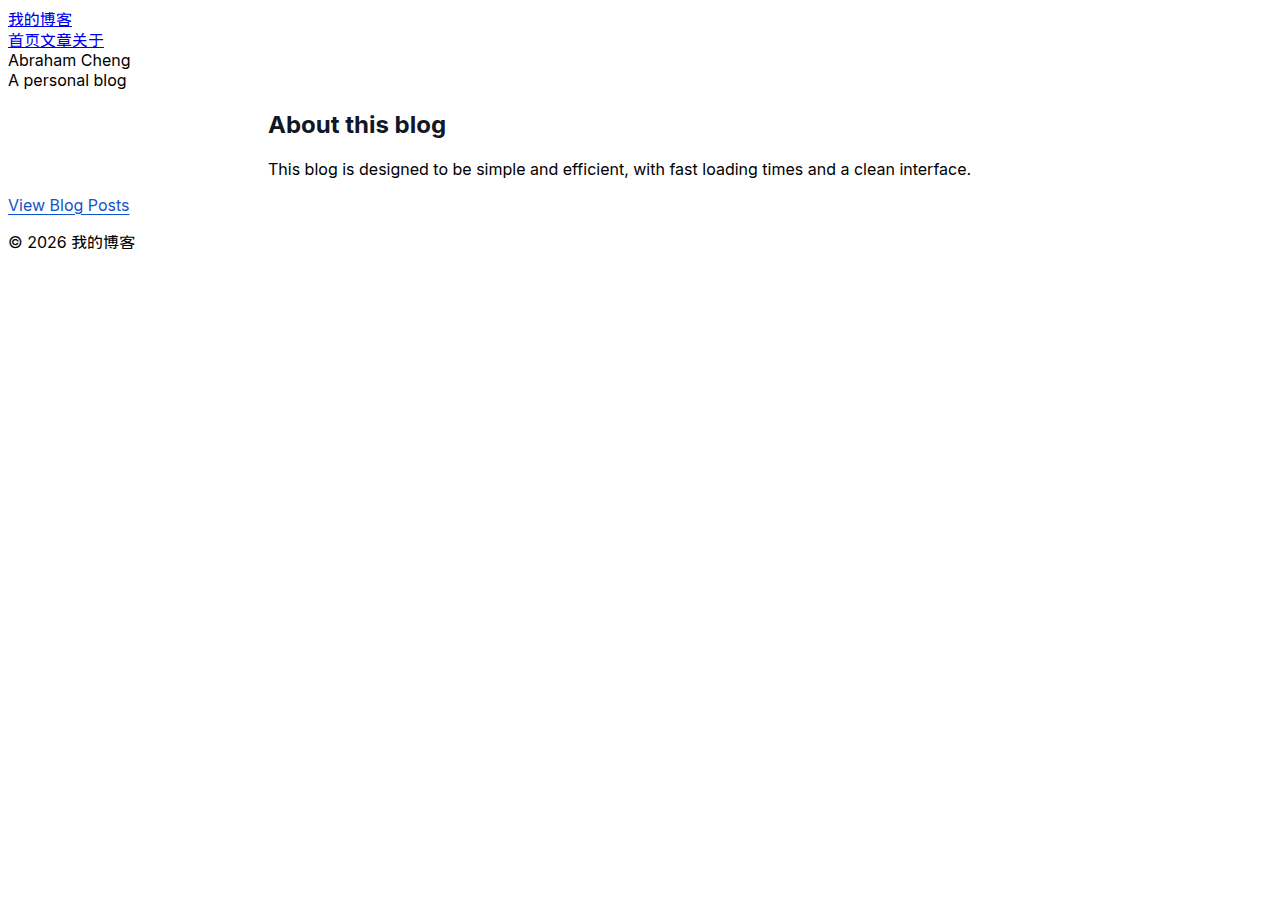
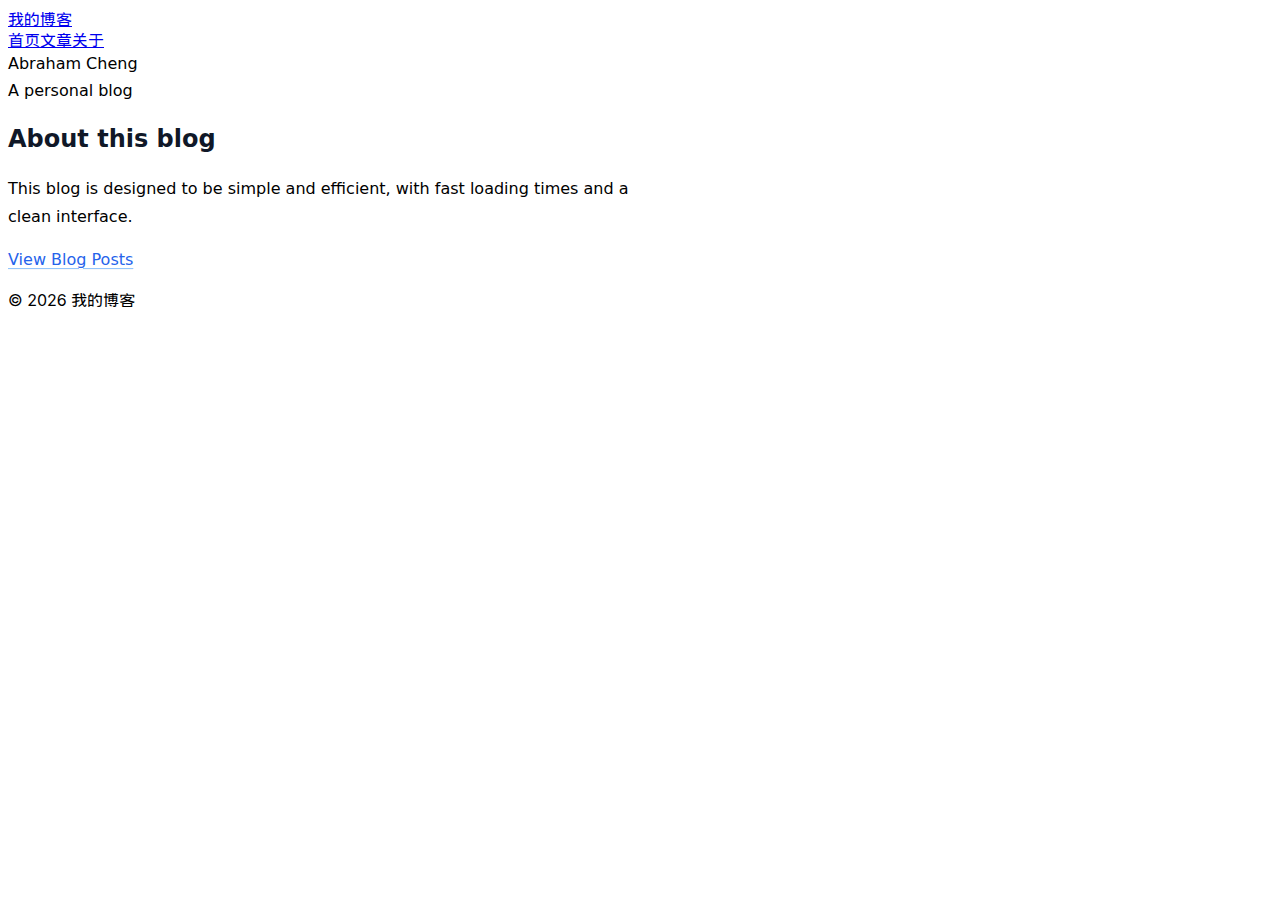
Complete Tailwind article body migration: enhanced typography, optimized config, updated baselines
- Refined typography with improved font sizes, spacing, and line heights
- Enhanced blockquotes with visual styling and proper quoting
- Improved code blocks and syntax highlighting colors
- Added sophisticated link hover states and visited link colors
- Enhanced image and figure styling with borders and shadows
- Added comprehensive table styling for better readability
- Optimized Tailwind config with extended color palette and utilities
- Cleaned up temporary CSS while keeping font smoothing improvements
- Updated baseline screenshots to reflect all improvements
- Visual regression tests pass with 0 mismatched pixels

Changed region(s): [[0.0, 0.0622, 0.75, 0.3422], [0.1875, 0.1244, 0.3438, 0.1556]]

diff --git a/app/globals.css b/app/globals.css
@@ -24,12 +24,7 @@
     @apply bg-[--background] text-black antialiased duration-200 ease-out [-webkit-tap-highlight-color:transparent] dark:text-white dark:bg-black/85;
   }
 
-  /* Stabilize rendering for visual tests: disable animations/transitions and enforce font smoothing */
-  *, *::before, *::after {
-    @apply transition-none!;
-    animation: none !important;
-  }
-
+  /* Enhanced font rendering for better readability */
   html, body {
     -webkit-font-smoothing: antialiased;
     -moz-osx-font-smoothing: grayscale;
@@ -61,29 +56,48 @@
 @layer components {
   /* Tailwind-first test class for article body migration */
   .article-tailwind {
-    @apply text-base leading-8 text-[#364153];
+    @apply text-lg leading-relaxed text-[#364153];
+    font-family: -apple-system, BlinkMacSystemFont, "Segoe UI", Roboto, Oxygen, Ubuntu, Cantarell, sans-serif;
+    max-width: 65ch;
+    line-height: 1.7;
   }
 
   /* Typography mappings for article-tailwind */
   .article-tailwind h1 {
-    @apply text-4xl font-semibold mt-0 mb-6 text-[#101828];
+    @apply text-3xl font-bold mt-0 mb-8 text-[#101828];
+    line-height: 1.2;
   }
 
   .article-tailwind h2 {
-    @apply text-2xl font-semibold mt-8 mb-3 text-[#101828];
+    @apply text-2xl font-semibold mt-12 mb-4 text-[#101828];
+    line-height: 1.3;
   }
 
   .article-tailwind h3 {
-    @apply text-xl font-semibold mt-6 mb-2 text-[#101828];
+    @apply text-xl font-medium mt-8 mb-3 text-[#101828];
+    line-height: 1.4;
+  }
+
+  .article-tailwind h4 {
+    @apply text-lg font-medium mt-6 mb-2 text-[#101828];
+    line-height: 1.4;
+  }
+
+  .article-tailwind h5,
+  .article-tailwind h6 {
+    @apply text-base font-medium mt-4 mb-2 text-[#101828];
+    line-height: 1.4;
   }
 
   .article-tailwind p {
-    @apply mb-4;
+    @apply mb-6 text-[#364153];
+    line-height: 1.7;
   }
 
   .article-tailwind ul,
   .article-tailwind ol {
-    @apply pl-5 mb-4;
+    @apply pl-6 mb-6;
+    line-height: 1.7;
   }
 
   .article-tailwind ul {
@@ -95,34 +109,61 @@
   }
 
   .article-tailwind li {
-    @apply mb-2;
+    @apply mb-3;
+    line-height: 1.7;
+  }
+
+  .article-tailwind li p {
+    @apply mb-3;
   }
 
   .article-tailwind blockquote {
-    @apply pl-4 border-l-4 border-black/10 italic text-black/70 my-4;
+    @apply pl-6 py-4 my-6 border-l-4 border-[#3b82f6] bg-[#f8fafc] rounded-r-lg;
+    font-style: italic;
+    color: #475569;
+    position: relative;
+  }
+
+  .article-tailwind blockquote::before {
+    content: '"';
+    @apply text-4xl text-[#3b82f6] absolute left-2 -top-1;
+    font-family: Georgia, serif;
+    line-height: 1;
+  }
+
+  .article-tailwind blockquote p {
+    @apply mb-0 pl-4;
   }
 
   .article-tailwind pre {
-    @apply p-4 rounded-md overflow-auto my-4 font-mono text-sm;
-    background-color: #f7f7f6;
+    @apply p-6 rounded-lg overflow-auto my-6 font-mono text-sm shadow-sm;
+    background-color: #f8fafc;
+    border: 1px solid #e2e8f0;
+    line-height: 1.6;
     code {
-      @apply text-sm leading-[1.6] break-words;
-      background-color: #f3f4f6;
+      @apply text-sm leading-[1.6] break-words bg-transparent p-0;
+      color: #334155;
     }
     /* Improve scroll & padding for long code blocks */
     max-width: 100%;
   }
  
   .article-tailwind code {
-    @apply bg-black/[4%] px-1 py-0.5 rounded text-sm font-mono;
-    /* inline code slight color tweak */
-    color: inherit;
+    @apply bg-[#f1f5f9] px-2 py-1 rounded text-sm font-mono border;
+    color: #475569;
+    border-color: #e2e8f0;
+  }
+
+  /* Ensure inline code in paragraphs doesn't break line height */
+  .article-tailwind p code {
+    @apply inline-block;
+    line-height: 1;
   }
 
   /* Syntax highlighting overrides for article-tailwind */
   .article-tailwind pre code.hljs {
     @apply bg-transparent p-0;
-    color: #333;
+    color: #334155 !important;
   }
 
   .article-tailwind pre {
@@ -131,65 +172,141 @@
 
   /* Ensure syntax highlighted code blocks work well with our theme */
   .article-tailwind .hljs {
-    background: #f7f7f6 !important;
-    color: #333 !important;
-    border-radius: 6px;
+    background: #f8fafc !important;
+    color: #334155 !important;
+    border-radius: 8px;
+    padding: 0 !important;
   }
 
   .article-tailwind .hljs-comment,
   .article-tailwind .hljs-quote {
-    color: #69787f !important;
+    color: #64748b !important;
     font-style: italic;
   }
 
   .article-tailwind .hljs-keyword,
   .article-tailwind .hljs-selector-tag,
   .article-tailwind .hljs-subst {
-    color: #d14 !important;
-    font-weight: bold;
+    color: #dc2626 !important;
+    font-weight: 600;
   }
 
   .article-tailwind .hljs-string,
   .article-tailwind .hljs-attr {
-    color: #0e7b6c !important;
+    color: #059669 !important;
   }
 
   .article-tailwind .hljs-number,
   .article-tailwind .hljs-literal,
   .article-tailwind .hljs-meta {
-    color: #088 !important;
+    color: #7c3aed !important;
+  }
+
+  .article-tailwind .hljs-function,
+  .article-tailwind .hljs-title {
+    color: #2563eb !important;
+    font-weight: 600;
+  }
+
+  .article-tailwind .hljs-variable,
+  .article-tailwind .hljs-name {
+    color: #ea580c !important;
   }
 
   .article-tailwind img {
-    @apply max-w-full h-auto rounded-md my-4;
+    @apply max-w-full h-auto rounded-lg my-8 shadow-sm;
     display: block;
     margin-left: auto;
     margin-right: auto;
+    border: 1px solid #e2e8f0;
   }
 
   .article-tailwind figure {
-    @apply my-6 mx-auto;
+    @apply my-8 mx-auto;
     max-width: 65ch;
     width: 100%;
     display: block;
   }
 
   .article-tailwind figcaption {
-    @apply text-sm opacity-70 mt-2 text-center italic;
-    color: #6b7280; /* subtle gray caption */
-    line-height: 1.3;
+    @apply text-sm opacity-75 mt-3 text-center italic;
+    color: #64748b;
+    line-height: 1.4;
+    font-weight: 400;
   }
 
   /* List marker color and spacing tweaks to better match Hugo theme */
   .article-tailwind li::marker {
-    color: #6b7280; /* gray-500 */
+    color: #64748b;
     font-size: 0.9em;
   }
 
+  /* Table styling */
+  .article-tailwind table {
+    @apply w-full my-8 border-collapse bg-white rounded-lg overflow-hidden shadow-sm;
+    border: 1px solid #e2e8f0;
+  }
+
+  .article-tailwind th,
+  .article-tailwind td {
+    @apply px-4 py-3 text-left border-b border-gray-200;
+    line-height: 1.5;
+  }
+
+  .article-tailwind th {
+    @apply bg-gray-50 font-semibold text-gray-900;
+    border-bottom: 2px solid #e2e8f0;
+  }
+
+  .article-tailwind td {
+    @apply text-gray-800;
+  }
+
+  .article-tailwind tbody tr:hover {
+    @apply bg-gray-50;
+  }
+
+  .article-tailwind tbody tr:last-child td {
+    border-bottom: none;
+  }
+
+  /* Horizontal rule styling */
+  .article-tailwind hr {
+    @apply my-8 border-0 h-px bg-gradient-to-r from-transparent via-gray-300 to-transparent;
+  }
+
+  /* Strong and emphasis styling */
+  .article-tailwind strong {
+    @apply font-semibold text-gray-900;
+  }
+
+  .article-tailwind em {
+    @apply italic text-gray-700;
+  }
+
   .article-tailwind a {
-    color: #1155cc;
+    color: #2563eb;
     text-decoration: underline;
     text-underline-offset: 3px;
+    text-decoration-thickness: 1px;
+    text-decoration-color: #93c5fd;
+    transition: all 0.2s ease;
+  }
+
+  .article-tailwind a:hover {
+    color: #1d4ed8;
+    text-decoration-color: #2563eb;
+    text-decoration-thickness: 2px;
+  }
+
+  .article-tailwind a:visited {
+    color: #7c3aed;
+    text-decoration-color: #c4b5fd;
+  }
+
+  .article-tailwind a:visited:hover {
+    color: #6d28d9;
+    text-decoration-color: #7c3aed;
   }
 
   .prose-standard {

diff --git a/tailwind.config.js b/tailwind.config.js
@@ -3,6 +3,7 @@ module.exports = {
     './pages/**/*.{js,ts,jsx,tsx,mdx}',
     './components/**/*.{js,ts,jsx,tsx,mdx}',
     './app/**/*.{js,ts,jsx,tsx,mdx}',
+    './content/**/*.{md,mdx}',
   ],
   theme: {
     extend: {
@@ -11,12 +12,57 @@ module.exports = {
         'heading-text': '#101828', // Hugo Paper主题的标题颜色
         background: 'var(--background)',
         foreground: 'var(--foreground)',
+        // Enhanced color palette for blog
+        'blog-gray': {
+          50: '#f8fafc',
+          100: '#f1f5f9',
+          200: '#e2e8f0',
+          300: '#cbd5e1',
+          400: '#94a3b8',
+          500: '#64748b',
+          600: '#475569',
+          700: '#334155',
+          800: '#1e293b',
+          900: '#0f172a'
+        },
+        'blog-blue': {
+          50: '#eff6ff',
+          500: '#3b82f6',
+          600: '#2563eb',
+          700: '#1d4ed8',
+        },
+        'blog-purple': {
+          500: '#7c3aed',
+          600: '#6d28d9'
+        }
       },
       maxWidth: {
         'prose-standard': '65ch', // Hugo Paper主题的文章最大宽度
+        'blog-container': 'calc(680px + 32px * 2)', // Hugo Paper container width
       },
       lineHeight: {
-        'article': '1.8', // Hugo Paper主题的文章行高
+        'article': '1.7', // 优化后的文章行高
+        'article-relaxed': '1.8',
+      },
+      fontSize: {
+        'article': ['1.125rem', '1.7'],
+        'article-sm': ['1rem', '1.7'],
+        'article-lg': ['1.25rem', '1.7'],
+      },
+      spacing: {
+        'article': '1.5rem', // Standard article spacing
+        'article-lg': '2rem',
+        'article-xl': '3rem',
+      },
+      fontFamily: {
+        'article': ['-apple-system', 'BlinkMacSystemFont', '"Segoe UI"', 'Roboto', 'Oxygen', 'Ubuntu', 'Cantarell', 'sans-serif'],
+      },
+      borderRadius: {
+        'article': '8px',
+      },
+      boxShadow: {
+        'article': '0 1px 3px 0 rgba(0, 0, 0, 0.1), 0 1px 2px 0 rgba(0, 0, 0, 0.06)',
+        'article-lg': '0 4px 6px -1px rgba(0, 0, 0, 0.1), 0 2px 4px -1px rgba(0, 0, 0, 0.06)',
       }
     },
   },
